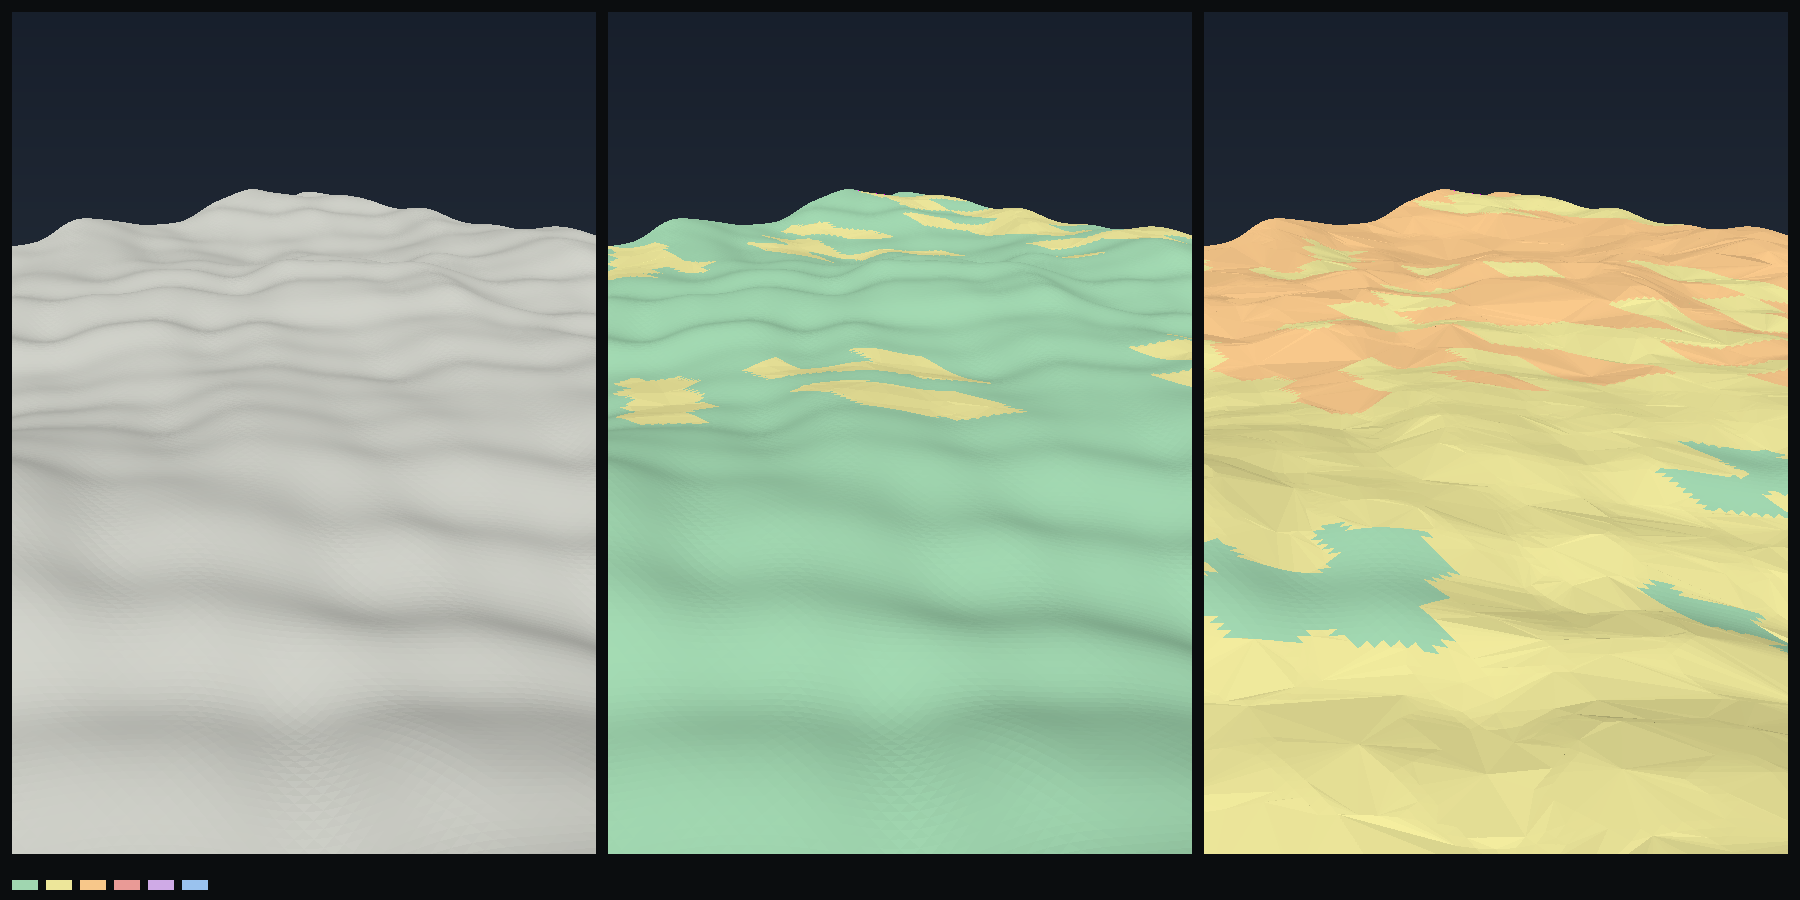
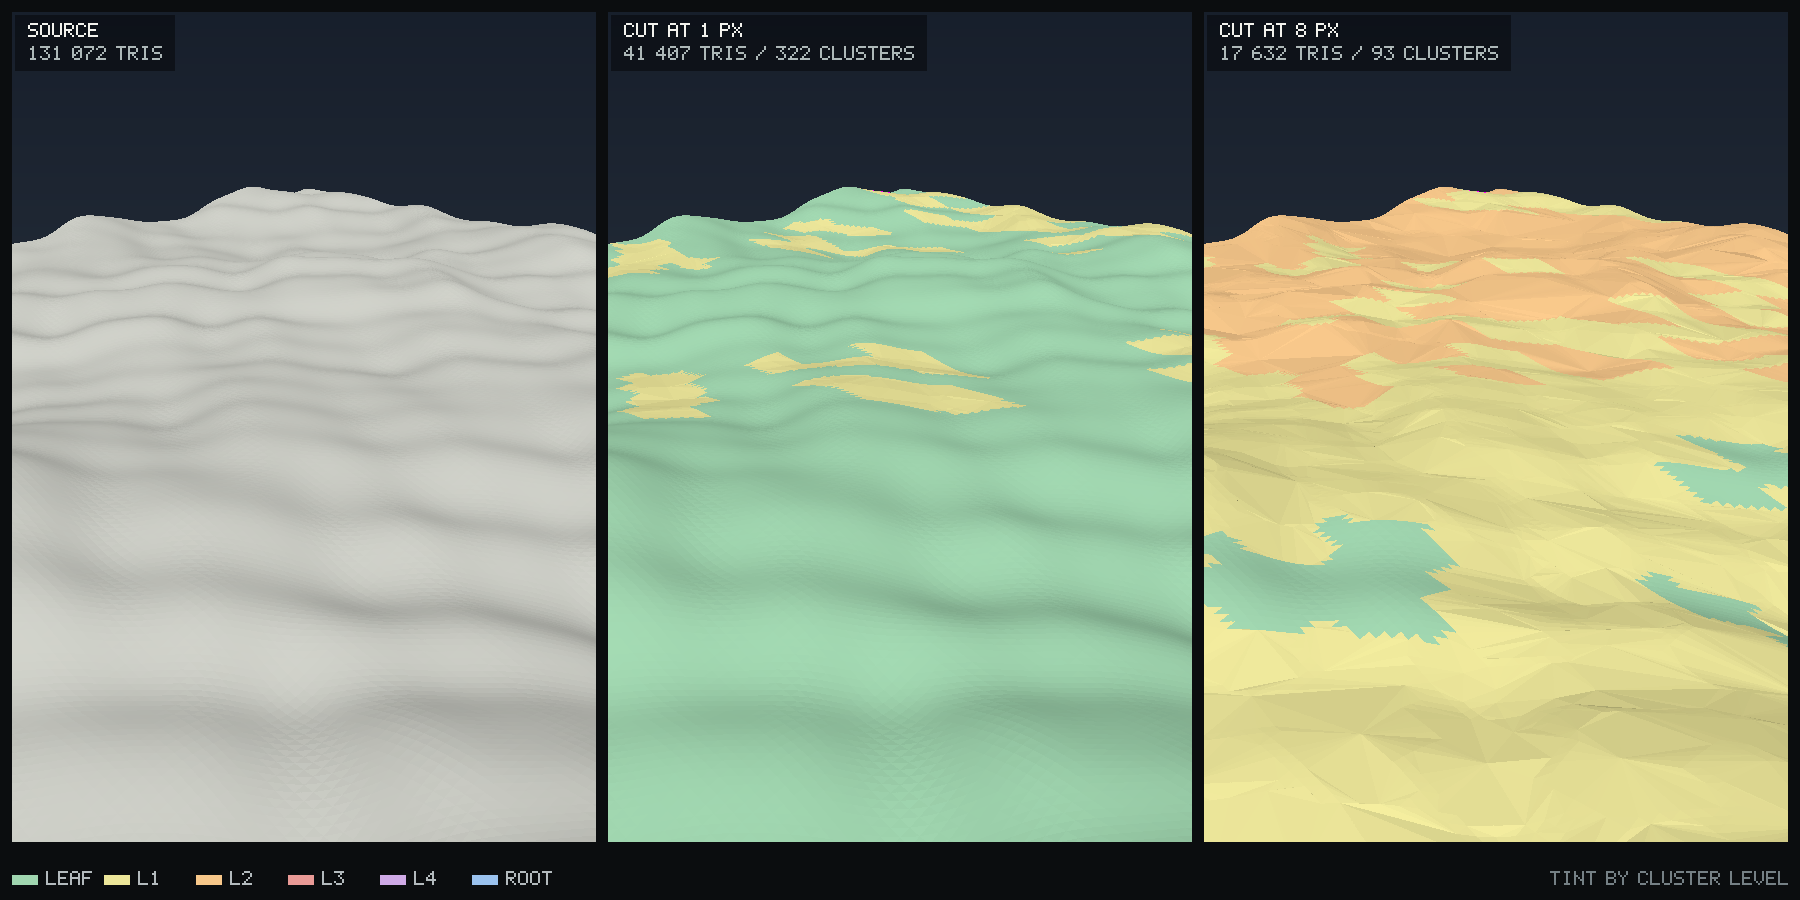
Label the virtual-geometry figure and build its tool in CI
The three panels now carry the budget and the counts that go with it,
and the level swatches are named, so the sheet explains itself wherever
the PNG ends up. The preview is a CMake target now, so CI compiles it.

Also corrects the docs on the shadow pass: it keeps the classic
distance-LOD buffer, a cut never touches it.

diff --git a/tools/vgeom_preview.cpp b/tools/vgeom_preview.cpp
@@ -13,6 +13,7 @@
 //     ./build/vgeom_preview docs/vgeom-levels.png . 1800 900
 #include <algorithm>
 #include <cmath>
+#include <cstdint>
 #include <cstdio>
 #include <cstdlib>
 #include <cstring>
@@ -118,6 +119,75 @@ glm::vec3 toSrgb(glm::vec3 c) {
     return glm::vec3(std::pow(c.x, 1.0f / 2.2f), std::pow(c.y, 1.0f / 2.2f), std::pow(c.z, 1.0f / 2.2f));
 }
 
+// A 5x7 bitmap font, just the glyphs this sheet needs. Text is drawn into the final image so the figure stays
+// readable wherever the PNG is embedded; nothing here is part of the engine.
+const uint8_t kGlyphRows[][7] = {
+    {14, 17, 17, 31, 17, 17, 17}, {30, 17, 17, 30, 17, 17, 30}, {14, 17, 16, 16, 16, 17, 14},
+    {30, 17, 17, 17, 17, 17, 30}, {31, 16, 16, 30, 16, 16, 31}, {31, 16, 16, 30, 16, 16, 16},
+    {14, 17, 16, 23, 17, 17, 15}, {17, 17, 17, 31, 17, 17, 17}, {14, 4, 4, 4, 4, 4, 14},
+    {7, 2, 2, 2, 2, 18, 12},     {17, 18, 20, 24, 20, 18, 17}, {16, 16, 16, 16, 16, 16, 31},
+    {17, 27, 21, 21, 17, 17, 17}, {17, 17, 25, 21, 19, 17, 17}, {14, 17, 17, 17, 17, 17, 14},
+    {30, 17, 17, 30, 16, 16, 16}, {14, 17, 17, 17, 21, 18, 13}, {30, 17, 17, 30, 20, 18, 17},
+    {15, 16, 16, 14, 1, 1, 30},   {31, 4, 4, 4, 4, 4, 4},      {17, 17, 17, 17, 17, 17, 14},
+    {17, 17, 17, 17, 17, 10, 4},  {17, 17, 17, 21, 21, 21, 10}, {17, 17, 10, 4, 10, 17, 17},
+    {17, 17, 10, 4, 4, 4, 4},     {31, 1, 2, 4, 8, 16, 31},
+    {14, 17, 19, 21, 25, 17, 14}, {4, 12, 4, 4, 4, 4, 14},      {14, 17, 1, 2, 4, 8, 31},
+    {31, 2, 4, 2, 1, 17, 14},     {2, 6, 10, 18, 31, 2, 2},     {31, 16, 30, 1, 1, 17, 14},
+    {6, 8, 16, 30, 17, 17, 14},   {31, 1, 2, 4, 8, 8, 8},       {14, 17, 17, 14, 17, 17, 14},
+    {14, 17, 17, 15, 1, 2, 12},   {0, 0, 0, 0, 0, 12, 12},      {1, 1, 2, 4, 8, 16, 16},
+    {0, 12, 12, 0, 12, 12, 0},    {24, 25, 2, 4, 8, 19, 3},     {0, 0, 0, 31, 0, 0, 0},
+};
+// Index of a glyph in kGlyphRows, or -1 for a character the sheet does not use.
+int glyphIndex(char c) {
+    if (c >= 'A' && c <= 'Z') return c - 'A';
+    if (c >= '0' && c <= '9') return 26 + (c - '0');
+    switch (c) {
+        case '.': return 36;
+        case '/': return 37;
+        case ':': return 38;
+        case '-': return 39;
+        default: return -1;
+    }
+}
+
+void fillRect(std::vector<glm::vec3>& px, int w, int h, int x0, int y0, int rw, int rh, glm::vec3 c, float alpha) {
+    for (int y = std::max(0, y0); y < std::min(h, y0 + rh); ++y)
+        for (int x = std::max(0, x0); x < std::min(w, x0 + rw); ++x) {
+            glm::vec3& d = px[size_t(y) * w + x];
+            d = glm::mix(d, c, alpha);
+        }
+}
+
+int textWidth(const char* text, int scale) {
+    int n = 0;
+    for (const char* p = text; *p; ++p) n += (*p == ' ' ? 4 : 6) * scale;
+    return n > 0 ? n - scale : 0;
+}
+
+void drawText(std::vector<glm::vec3>& px, int w, int h, int x, int y, const char* text, int scale, glm::vec3 c) {
+    for (const char* p = text; *p; ++p) {
+        if (*p == ' ') { x += 4 * scale; continue; }
+        const int g = glyphIndex(*p);
+        if (g < 0) { x += 6 * scale; continue; }
+        for (int row = 0; row < 7; ++row) {
+            const uint8_t bits = kGlyphRows[g][row];
+            for (int col = 0; col < 5; ++col)
+                if (bits & (1u << (4 - col))) fillRect(px, w, h, x + col * scale, y + row * scale, scale, scale, c, 1.0f);
+        }
+        x += 6 * scale;
+    }
+}
+
+std::string withThousands(size_t v) {
+    std::string digits = std::to_string(v);
+    std::string out;
+    for (size_t i = 0; i < digits.size(); ++i) {
+        if (i && (digits.size() - i) % 3 == 0) out.push_back(' ');
+        out.push_back(digits[i]);
+    }
+    return out;
+}
+
 } // namespace
 
 int main(int argc, char** argv) {
@@ -189,7 +259,7 @@ int main(int argc, char** argv) {
         }
     }
 
-    const int gutter = 12, margin = 12, legend = 34;
+    const int gutter = 12, margin = 12, legend = 46;
     const int panelW = (outW - margin * 2 - gutter * 2) / 3;
     const int panelH = outH - margin * 2 - legend;
 
@@ -211,6 +281,7 @@ int main(int argc, char** argv) {
     view.cull = std::getenv("VG_NOCULL") == nullptr;
     std::vector<glm::vec3> finalPixels(size_t(outW) * outH, glm::vec3(0.045f, 0.050f, 0.058f));
     std::vector<uint8_t> sourceMask(size_t(panelW) * panelH, 0);
+    std::string headline[3], detail[3];
 
     for (int p = 0; p < 3; ++p) {
         Image img;
@@ -238,6 +309,17 @@ int main(int argc, char** argv) {
         const size_t drawn = tris.size();
         std::printf("%-6s %6zu triangles in %5zu clusters -> %.1f%% of the source", panels[p].label, drawn, cut.size(),
                     100.0 * double(drawn) / double(indices.size() / 3));
+        char head[48], sub[64];
+        if (panels[p].pixels > 0.0f) {
+            std::snprintf(head, sizeof(head), "CUT AT %g PX", double(panels[p].pixels));
+            std::snprintf(sub, sizeof(sub), "%s TRIS / %s CLUSTERS", withThousands(drawn).c_str(),
+                          withThousands(cut.size()).c_str());
+        } else {
+            std::snprintf(head, sizeof(head), "SOURCE");
+            std::snprintf(sub, sizeof(sub), "%s TRIS", withThousands(drawn).c_str());
+        }
+        headline[p] = head;
+        detail[p] = sub;
         if (!cut.empty()) {
             int perLevel[8] = {0, 0, 0, 0, 0, 0, 0, 0};
             for (uint32_t id : cut) ++perLevel[std::min<uint32_t>(mesh.clusters[id].level, 7)];
@@ -279,14 +361,29 @@ int main(int argc, char** argv) {
         }
     }
 
+    // Panel captions, on a soft plate so they read over both sky and terrain.
+    for (int p = 0; p < 3; ++p) {
+        const int ox = margin + p * (panelW + gutter) + 3;
+        const int oy = margin + 3;
+        const int tw = std::max(textWidth(headline[p].c_str(), 2), textWidth(detail[p].c_str(), 2));
+        fillRect(finalPixels, outW, outH, ox, oy, tw + 26, 56, glm::vec3(0.02f, 0.025f, 0.035f), 0.55f);
+        drawText(finalPixels, outW, outH, ox + 13, oy + 8, headline[p].c_str(), 2, glm::vec3(0.95f, 0.95f, 0.93f));
+        drawText(finalPixels, outW, outH, ox + 13, oy + 31, detail[p].c_str(), 2, glm::vec3(0.68f, 0.72f, 0.72f));
+    }
+
     // Legend: one swatch per level at the foot of the sheet, in the same tint order the panels use.
+    static const char* kLevelNames[6] = {"LEAF", "L1", "L2", "L3", "L4", "ROOT"};
     for (uint32_t l = 0; l < 6; ++l) {
-        const int sw = 26, gap = 8;
-        const int x0 = margin + int(l) * (sw + gap);
+        const int sw = 26, slot = 92;
+        const int x0 = margin + int(l) * slot;
         for (int y = 0; y < 10; ++y)
             for (int x = 0; x < sw; ++x)
-                finalPixels[size_t(outH - 20 + y) * outW + (x0 + x)] = toSrgb(levelColor(l));
+                finalPixels[size_t(outH - 25 + y) * outW + (x0 + x)] = toSrgb(levelColor(l));
+        drawText(finalPixels, outW, outH, x0 + 34, outH - 29, kLevelNames[l], 2, glm::vec3(0.70f, 0.73f, 0.74f));
     }
+    static const char* kFooter = "TINT BY CLUSTER LEVEL";
+    drawText(finalPixels, outW, outH, outW - margin - textWidth(kFooter, 2), outH - 29, kFooter, 2,
+             glm::vec3(0.46f, 0.50f, 0.52f));
 
     std::vector<uint8_t> bytes(size_t(outW) * outH * 3);
     for (size_t i = 0; i < finalPixels.size(); ++i) {

diff --git a/src/engine/renderer.cpp b/src/engine/renderer.cpp
@@ -714,8 +714,8 @@ void Renderer::render(const OrbitCamera& cam, const std::vector<Model*>& models,
         uint32_t ic = 0;
         lodIndices(*r.prim, r.lod, &ib, &ic);
         dev_.bindVertexBuffer(r.prim->vertices.get());
-        // A cut replaces the distance LOD in every pass except the shadow one: a shadow wants the source surface, and
-        // that is the primitive's own index buffer (the leaves of the tree hold exactly those triangles).
+        // A cut replaces the distance LOD in every pass except the shadow one: a shadow keeps the classic index
+        // buffer, so a coarse parent can never open a gap in a shadow map.
         const bool vgeom = r.vgeomCut != nullptr && pipe != pShadow_.get();
         dev_.bindIndexBuffer(vgeom ? r.prim->vgeomIndices.get() : ib);
         dev_.pushConstants(&pc, sizeof(pc));

diff --git a/docs/VGEOM.md b/docs/VGEOM.md
@@ -15,10 +15,10 @@ actually has, and the differences are written down in [§7](#7-what-is-different
 ![The Terrain Lab tile, source and two cuts](vgeom-levels.png)
 
 *The 131 072-triangle Terrain Lab tile built into one tree, from the same camera. **Left:** every source triangle.
-**Middle:** the cut at a 1 px error budget — 41 279 triangles in 321 clusters, almost all leaves. **Right:** the cut at
-8 px — 17 306 triangles in 91 clusters, mostly level 1–2. Clusters are tinted by level (green leaf → blue root). Made
+**Middle:** the cut at a 1 px error budget — 41 407 triangles in 322 clusters, almost all leaves. **Right:** the cut at
+8 px — 17 632 triangles in 93 clusters, mostly level 1–2. Clusters are tinted by level (green leaf → blue root). Made
 offline by `tools/vgeom_preview.cpp`; the cut, the ranges and the counts are the engine's, only the shading is the
-tool's. A pixel-exact comparison against the source leaves 3 of 373 280 pixels uncovered, all on the tile's border.*
+tool's. A pixel-exact comparison against the source leaves 5 of 367 742 pixels uncovered, all on the tile's border.*
 
 ## 1. What the reference does, and what carries over
 
@@ -102,9 +102,10 @@ reuses it:
 * **Colour, depth prepass, outlines, graph materials** draw the cut. The selected clusters are sorted by `firstIndex`
   and adjacent ranges are merged, so a near cut of contiguous leaves becomes a handful of `drawIndexed` calls instead
   of one per cluster.
-* **Shadows** do not use the cut. The pass wants the source surface, and the leaves *are* the source index buffer, so
-  it draws exactly what it drew before the feature existed.
-* **Distance LOD** (`buildModelLods`, item 15) is skipped for a primitive that has a tree; the two do not fight.
+* **Shadows** keep the classic path. The shadow pipeline binds the distance-LOD index buffer it bound before the
+  feature existed, so a cut never changes a shadow silhouette and a coarse parent never opens a gap in one.
+* **Distance LOD** (`buildModelLods`, item 15) still picks that shadow buffer; the colour passes ignore it for a
+  primitive with a tree, so the two do not fight.
 
 The renderer exposes `lastVGeomStats()` (clusters, leaves, triangles, culled).
 
@@ -129,14 +130,14 @@ On the Terrain Lab mesh, from the camera in the figure:
 | Budget | Clusters | Triangles | Share of source |
 | --- | --- | --- | --- |
 | source | — | 131 072 | 100 % |
-| 0.25 px | 352 | 45 159 | 34.5 % |
-| 1 px | 321 | 41 279 | 31.5 % |
-| 8 px | 91 | 17 306 | 13.2 % |
+| 0.25 px | 360 | 46 193 | 35.2 % |
+| 1 px | 322 | 41 407 | 31.6 % |
+| 8 px | 93 | 17 632 | 13.5 % |
 
 The response is gentle because a 256 m tile seen from 300 m is *large on screen*: at a 1 px budget most of it still
-needs leaf-level detail. The same tree from a hover 400 m up collapses to the root's 2 408 triangles. The intended use
-is what the numbers on the right show: a static prop that fills a small part of the frame stops paying for triangles
-nobody can see.
+needs leaf-level detail. The same tree from a 400 m hover at 8 px is 19 360 triangles in 31 clusters (levels 2–3); at
+24 px it is the root, 2 408 triangles, which is exactly what a static prop that fills a small part of the frame
+collapses to.
 
 Costs, measured on this machine (single thread, `-O2`):
 
@@ -162,15 +163,14 @@ with stale-hash and stale-setting rejection.
 mesh, builds the real tree, selects real cuts and rasterizes them with a flat Lambert, tinting each cluster by level.
 
 ```sh
-c++ -O2 -std=c++17 -I src -I third_party -I third_party/meshoptimizer tools/vgeom_preview.cpp
-    src/engine/terrain.cpp src/engine/vgeom.cpp third_party/meshoptimizer/simplifier.cpp
-    third_party/meshoptimizer/allocator.cpp -o build/vgeom_preview
+cmake --build build --target vgeom_preview
 ./build/vgeom_preview docs/vgeom-levels.png . 1800 900
 ```
 
-`VG_EYE=x,y,z` and `VG_TARGET=x,y,z` move the camera; the tool prints the counts and the percentage of source pixels
-a cut left uncovered, which is how the frustum bug above was found (5 % before the fix, 0.000–0.005 % after, and those
-few pixels are the tile's own border).
+`VG_EYE=x,y,z` and `VG_TARGET=x,y,z` move the camera, and `VG_BUDGETS=a,b,c` replaces the three panels' error budgets.
+The tool prints every panel's triangles and clusters, and the percentage of source pixels its cut left uncovered —
+which is how the frustum bug above was found (5 % before the fix, 0.001–0.005 % after, and those few pixels are the
+tile's own border).
 
 ## 7. What is different from Nanite
 
